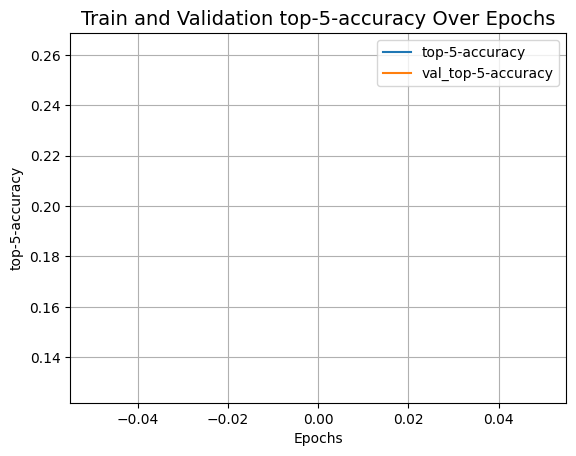
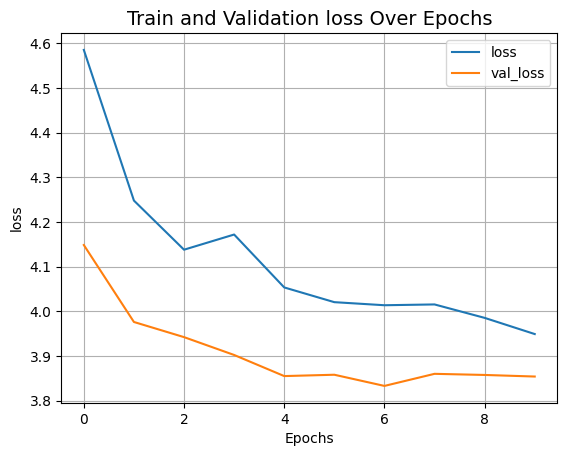
update vit example

diff --git a/examples/vision/md/image_classification_with_vision_transformer.md b/examples/vision/md/image_classification_with_vision_transformer.md
@@ -66,7 +66,7 @@ x_test shape: (10000, 32, 32, 3) - y_test shape: (10000, 1)
 learning_rate = 0.001
 weight_decay = 0.0001
 batch_size = 256
-num_epochs = 100
+num_epochs = 10  # For real training, use num_epochs=100. 10 is a test value
 image_size = 72  # We'll resize input images to this size
 patch_size = 6  # Size of the patches to be extract from the input images
 num_patches = (image_size // patch_size) ** 2
@@ -329,7 +329,7 @@ def run_experiment(model):
         x=x_train,
         y=y_train,
         batch_size=batch_size,
-        epochs=1,  # We train for 1 epoch as example, the total epoch should be `num_epochs`.
+        epochs=num_epochs,
         validation_split=0.1,
         callbacks=[checkpoint_callback],
     )
@@ -364,22 +364,59 @@ plot_history("top-5-accuracy")
 
 <div class="k-default-codeblock">
 ```
- 176/176 ━━━━━━━━━━━━━━━━━━━━ 517s 3s/step - accuracy: 0.0220 - loss: 4.9085 - top-5-accuracy: 0.0922 - val_accuracy: 0.0862 - val_loss: 4.0822 - val_top-5-accuracy: 0.2620
+Epoch 1/10
 
- 313/313 ━━━━━━━━━━━━━━━━━━━━ 67s 201ms/step - accuracy: 0.0832 - loss: 4.0683 - top-5-accuracy: 0.2661
-Test accuracy: 7.97%
-Test top 5 accuracy: 26.35%
+/opt/conda/envs/keras-jax/lib/python3.10/site-packages/keras/src/backend/jax/core.py:64: UserWarning: Explicitly requested dtype int64 requested in array is not available, and will be truncated to dtype int32. To enable more dtypes, set the jax_enable_x64 configuration option or the JAX_ENABLE_X64 shell environment variable. See https://github.com/google/jax#current-gotchas for more.
+  return jnp.array(x, dtype=dtype)
+
+ 176/176 ━━━━━━━━━━━━━━━━━━━━ 0s 3s/step - accuracy: 0.0168 - loss: 4.9533 - top-5-accuracy: 0.0754
+
+/opt/conda/envs/keras-jax/lib/python3.10/site-packages/keras/src/backend/jax/core.py:64: UserWarning: Explicitly requested dtype int64 requested in array is not available, and will be truncated to dtype int32. To enable more dtypes, set the jax_enable_x64 configuration option or the JAX_ENABLE_X64 shell environment variable. See https://github.com/google/jax#current-gotchas for more.
+  return jnp.array(x, dtype=dtype)
+
+ 176/176 ━━━━━━━━━━━━━━━━━━━━ 548s 3s/step - accuracy: 0.0169 - loss: 4.9512 - top-5-accuracy: 0.0756 - val_accuracy: 0.0612 - val_loss: 4.1483 - val_top-5-accuracy: 0.2158
+Epoch 2/10
+   1/176 [37m━━━━━━━━━━━━━━━━━━━━  9:01 3s/step - accuracy: 0.0508 - loss: 4.2862 - top-5-accuracy: 0.1719
+
+/opt/conda/envs/keras-jax/lib/python3.10/site-packages/keras/src/backend/jax/core.py:64: UserWarning: Explicitly requested dtype int64 requested in array is not available, and will be truncated to dtype int32. To enable more dtypes, set the jax_enable_x64 configuration option or the JAX_ENABLE_X64 shell environment variable. See https://github.com/google/jax#current-gotchas for more.
+  return jnp.array(x, dtype=dtype)
+
+ 176/176 ━━━━━━━━━━━━━━━━━━━━ 486s 3s/step - accuracy: 0.0444 - loss: 4.2754 - top-5-accuracy: 0.1728 - val_accuracy: 0.0708 - val_loss: 3.9759 - val_top-5-accuracy: 0.2596
+Epoch 3/10
+ 176/176 ━━━━━━━━━━━━━━━━━━━━ 466s 3s/step - accuracy: 0.0524 - loss: 4.1685 - top-5-accuracy: 0.1971 - val_accuracy: 0.0780 - val_loss: 3.9420 - val_top-5-accuracy: 0.2828
+Epoch 4/10
+ 176/176 ━━━━━━━━━━━━━━━━━━━━ 464s 3s/step - accuracy: 0.0561 - loss: 4.1708 - top-5-accuracy: 0.2084 - val_accuracy: 0.0854 - val_loss: 3.9020 - val_top-5-accuracy: 0.2928
+Epoch 5/10
+ 176/176 ━━━━━━━━━━━━━━━━━━━━ 455s 3s/step - accuracy: 0.0622 - loss: 4.0647 - top-5-accuracy: 0.2338 - val_accuracy: 0.0962 - val_loss: 3.8547 - val_top-5-accuracy: 0.2946
+Epoch 6/10
+ 176/176 ━━━━━━━━━━━━━━━━━━━━ 454s 3s/step - accuracy: 0.0670 - loss: 4.0250 - top-5-accuracy: 0.2441 - val_accuracy: 0.0950 - val_loss: 3.8577 - val_top-5-accuracy: 0.3084
+Epoch 7/10
+ 176/176 ━━━━━━━━━━━━━━━━━━━━ 457s 3s/step - accuracy: 0.0684 - loss: 4.0103 - top-5-accuracy: 0.2508 - val_accuracy: 0.1000 - val_loss: 3.8327 - val_top-5-accuracy: 0.3040
+Epoch 8/10
+ 176/176 ━━━━━━━━━━━━━━━━━━━━ 449s 3s/step - accuracy: 0.0727 - loss: 3.9884 - top-5-accuracy: 0.2583 - val_accuracy: 0.1012 - val_loss: 3.8598 - val_top-5-accuracy: 0.2964
+Epoch 9/10
+ 176/176 ━━━━━━━━━━━━━━━━━━━━ 448s 3s/step - accuracy: 0.0760 - loss: 3.9827 - top-5-accuracy: 0.2604 - val_accuracy: 0.0980 - val_loss: 3.8572 - val_top-5-accuracy: 0.2990
+Epoch 10/10
+ 176/176 ━━━━━━━━━━━━━━━━━━━━ 449s 3s/step - accuracy: 0.0790 - loss: 3.9468 - top-5-accuracy: 0.2711 - val_accuracy: 0.0986 - val_loss: 3.8537 - val_top-5-accuracy: 0.3052
+   2/313 [37m━━━━━━━━━━━━━━━━━━━━  1:01 198ms/step - accuracy: 0.0547 - loss: 3.8448 - top-5-accuracy: 0.2656
+
+/opt/conda/envs/keras-jax/lib/python3.10/site-packages/keras/src/backend/jax/core.py:64: UserWarning: Explicitly requested dtype int64 requested in array is not available, and will be truncated to dtype int32. To enable more dtypes, set the jax_enable_x64 configuration option or the JAX_ENABLE_X64 shell environment variable. See https://github.com/google/jax#current-gotchas for more.
+  return jnp.array(x, dtype=dtype)
+
+ 313/313 ━━━━━━━━━━━━━━━━━━━━ 66s 198ms/step - accuracy: 0.1001 - loss: 3.8428 - top-5-accuracy: 0.3107
+Test accuracy: 10.61%
+Test top 5 accuracy: 31.51%
 
 ```
 </div>
     
-![png](/img/examples/vision/image_classification_with_vision_transformer/image_classification_with_vision_transformer_21_8.png)
-    
-
-
-
-    
 ![png](/img/examples/vision/image_classification_with_vision_transformer/image_classification_with_vision_transformer_21_9.png)
+    
+
+
+
+    
+![png](/img/examples/vision/image_classification_with_vision_transformer/image_classification_with_vision_transformer_21_10.png)
     
 
 
